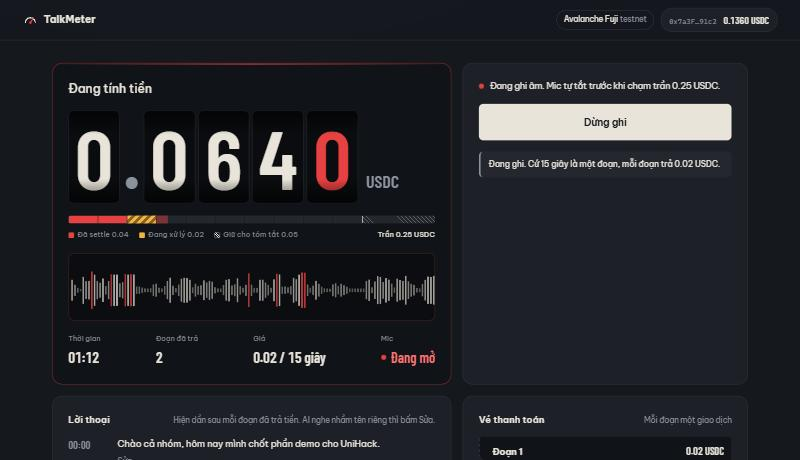
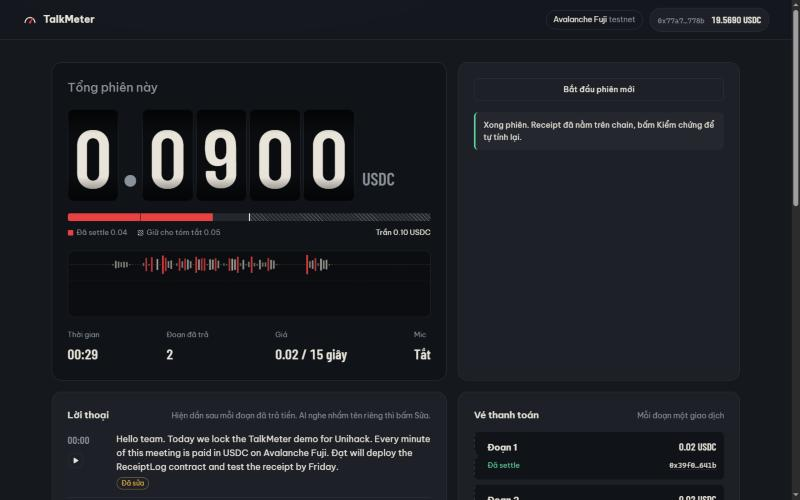
Add real session screenshots and MIT license

diff --git a/client/src/components/WalletChip.jsx b/client/src/components/WalletChip.jsx
@@ -17,7 +17,13 @@ export default function WalletChip({ wallet, balance, network, locked, onNewWall
 
   return (
     <div className="wallet">
-      <button type="button" className="wallet-chip" aria-expanded={open} onClick={() => setOpen(!open)}>
+      <button
+        type="button"
+        className="wallet-chip"
+        aria-expanded={open}
+        aria-label={`Ví phiên ${short(wallet.address)}, số dư ${balance === null ? "đang tải" : `${balance.toFixed(4)} USDC`}`}
+        onClick={() => setOpen(!open)}
+      >
         <span className="wallet-addr">{short(wallet.address)}</span>
         <span className="wallet-bal">{balance === null ? "…" : balance.toFixed(4)} USDC</span>
       </button>

diff --git a/README.md b/README.md
@@ -4,7 +4,9 @@
 
 Team1 Vietnam UniHack 2026, Topic 19.
 
-![Giao diện TalkMeter khi đang ghi (dữ liệu minh họa)](docs/screenshot.jpg)
+![Một phiên thật trên Fuji: 2 đoạn đã trả tiền, mic tự tắt ở trần 0.10 USDC](docs/screenshot.jpg)
+
+![Kết quả của phiên đó: tóm tắt, việc cần làm, receipt on-chain kiểm chứng Khớp](docs/screenshot-result.jpg)
 
 ## Dành cho ai
 
@@ -40,6 +42,7 @@ Một phiên chạy thật ngày 21/11/2026 bằng `npm run test-ai`: 3 đoạn 
 - Ba giao dịch x402 liên tiếp, mỗi giao dịch 0.02 USDC: [đoạn 1](https://testnet.snowtrace.io/tx/0xeee6c853f18e82e26b85af438cda94ea05b12c9ff4c7411b487f6c6512dc144b), [đoạn 2](https://testnet.snowtrace.io/tx/0xb867b704fed15f8962be12fe452d94e9feb24f3cd3f2f6c14dd291bd1d090054), [đoạn 3](https://testnet.snowtrace.io/tx/0xb432e9bca3632f05d69beacbf8a9857594aacab969b76f6e76272ac299ca1253)
 - Bản tóm tắt, 0.05 USDC: [giao dịch](https://testnet.snowtrace.io/tx/0x9d56da264fd2acecd690cbd2d943aefa037b6e43537754183f45656aef9a87ea)
 - Receipt của phiên đó: [giao dịch](https://testnet.snowtrace.io/tx/0xa3217c8174b2b1655e4d267977f26ddb4ff9fdcc660fe15de147d8cd6657457f), hash `0x1df9b4e5…7e8b1`. Tính lại từ transcript và mã giao dịch thì khớp với `receiptOf`.
+- Một phiên chạy trong trình duyệt (ảnh ở đầu trang), có sửa tên "DAT" thành "Đạt" trước khi tóm tắt: [đoạn 1](https://testnet.snowtrace.io/tx/0x39f075ff1e6b1791512caa2623d3efb4e5dfce772ae7faf8c955bbd6e620641b), [đoạn 2](https://testnet.snowtrace.io/tx/0xc47e4c9646da7828be2b081b2795e86bd4cc62f6f629f51bf2b9929891a6020e), [tóm tắt](https://testnet.snowtrace.io/tx/0x1a1ab53545e328ae4619e0e9db0baa45bf9b2d785f865745716113dbb12a8684), [receipt](https://testnet.snowtrace.io/tx/0x941bb2bada2a81c4ec30273c6a23914325c23818fe0936953f4d86e7519c1352). Kiểm chứng trên chain vẫn ra Khớp.
 - Gas đo được cho một lần settle x402: `86,144 gas × 0.001 gwei ≈ 0.000000086 AVAX`. Ghi receipt: `48,914 gas`.
 
 ## Chạy thử
@@ -130,3 +133,7 @@ Bản demo chạy trên Fuji với USDC thử nghiệm, không có giá trị th
 Ghi âm là xử lý dữ liệu cá nhân (Luật Bảo vệ dữ liệu cá nhân, hiệu lực 1/1/2026). TalkMeter xin đồng ý rõ ràng trước khi bật mic, báo rằng âm thanh được AI xử lý, không lưu file âm thanh trên server và chỉ đưa hash lên chain. Âm thanh vẫn được gửi tới API STT ở nước ngoài; hướng khắc phục là tự host model STT.
 
 Đây không phải tư vấn pháp lý.
+
+## Giấy phép
+
+MIT, xem [LICENSE](LICENSE).
